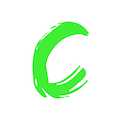
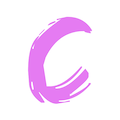
fix: Various fixes
- remove theme controls
- adapt app theme following system theme
- reduce alternate icons list

Changed region(s): [[0.225, 0.125, 0.775, 0.875]]

diff --git a/ColorFull/Controller/AppIconViewController.swift b/ColorFull/Controller/AppIconViewController.swift
@@ -23,11 +23,8 @@ class AppIconViewController: UIViewController, UITableViewDelegate, UITableViewD
 
     var textColor: UIColor! = nil
     var backgroundColor: UIColor! = nil
-    let myDataSource = Array(0...13).map { "\($0)" }
-    let colorNames = ["Green on White", "White on Lime", "Black on Lime", "Lime on Black",
-                      "White on Green", "Black on Purple", "White on Purple", "Purple on White",
-                      "Purple on Black", "Blue on Black", "White on Blue", "Blue on White",
-                      "Black on White", "White on Black"]
+    let myDataSource = Array(0...1).map { "\($0)" }
+    let colorNames = ["Purple on White", "White on Purple"]
 
 
     // MARK: Life Cycle
@@ -35,19 +32,24 @@ class AppIconViewController: UIViewController, UITableViewDelegate, UITableViewD
     override func viewDidLoad() {
         super.viewDidLoad()
 
-        let darkMode = UserDefaults.standard.bool(forKey: Constants.UserDef.darkModeIsOn)
-
-        myToolbar.barTintColor = darkMode ? .black : .white
-        view.backgroundColor = darkMode ? .black : .white
-        textColor = darkMode ? .white : .black
-        backgroundColor = darkMode ? .black : .white
-        myLabel.textColor = textColor
-
-
+        updateTheme()
     }
 
 
     // MARK: Helpers
+
+    func updateTheme() {
+
+        let darkMode = traitCollection.userInterfaceStyle == .dark
+
+        backgroundColor = darkMode ? .black : .white
+        textColor = darkMode ? .white : .black
+
+        myLabel.textColor = textColor
+        myToolbar.barTintColor = darkMode ? .black : .white
+        view.backgroundColor = darkMode ? .black : .white
+        myTableView.reloadData()
+    }
 
 
     func updateIcon() {
@@ -74,6 +76,13 @@ class AppIconViewController: UIViewController, UITableViewDelegate, UITableViewD
     }
 
 
+    override func traitCollectionDidChange(_ previousTraitCollection: UITraitCollection?) {
+        super.traitCollectionDidChange(previousTraitCollection)
+
+        updateTheme()
+    }
+
+
     // MARK: TableView
 
     func tableView(_ tableView: UITableView, numberOfRowsInSection section: Int) -> Int {
@@ -83,7 +92,8 @@ class AppIconViewController: UIViewController, UITableViewDelegate, UITableViewD
 
     func tableView(_ tableView: UITableView, cellForRowAt indexPath: IndexPath) -> UITableViewCell {
 
-        let darkMode = UserDefaults.standard.bool(forKey: Constants.UserDef.darkModeIsOn)
+        let darkMode = traitCollection.userInterfaceStyle == .dark
+
         tableView.backgroundColor = backgroundColor
         let cell = tableView.dequeueReusableCell(withIdentifier: Constants.CellID.cellID) as? MyCell
         cell?.selectionStyle = .none
